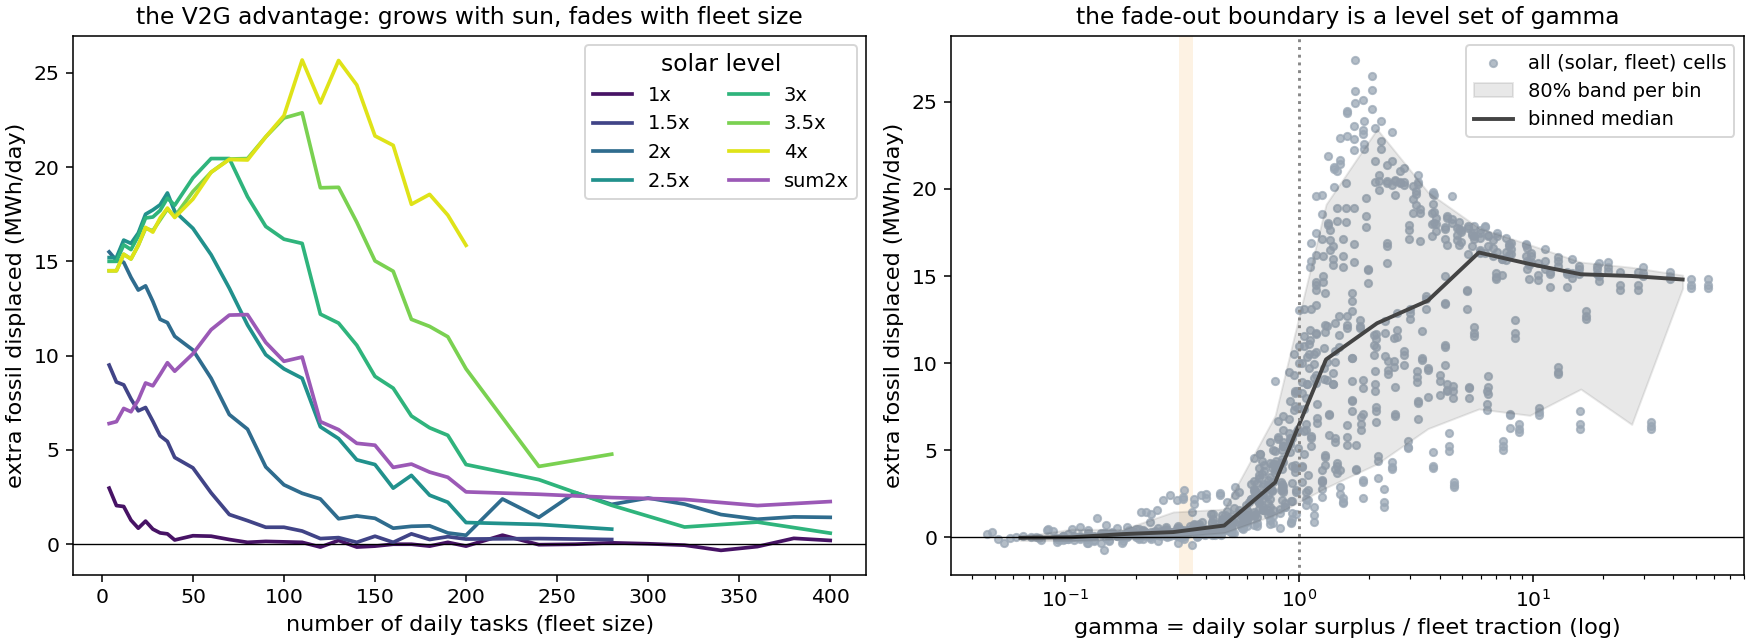
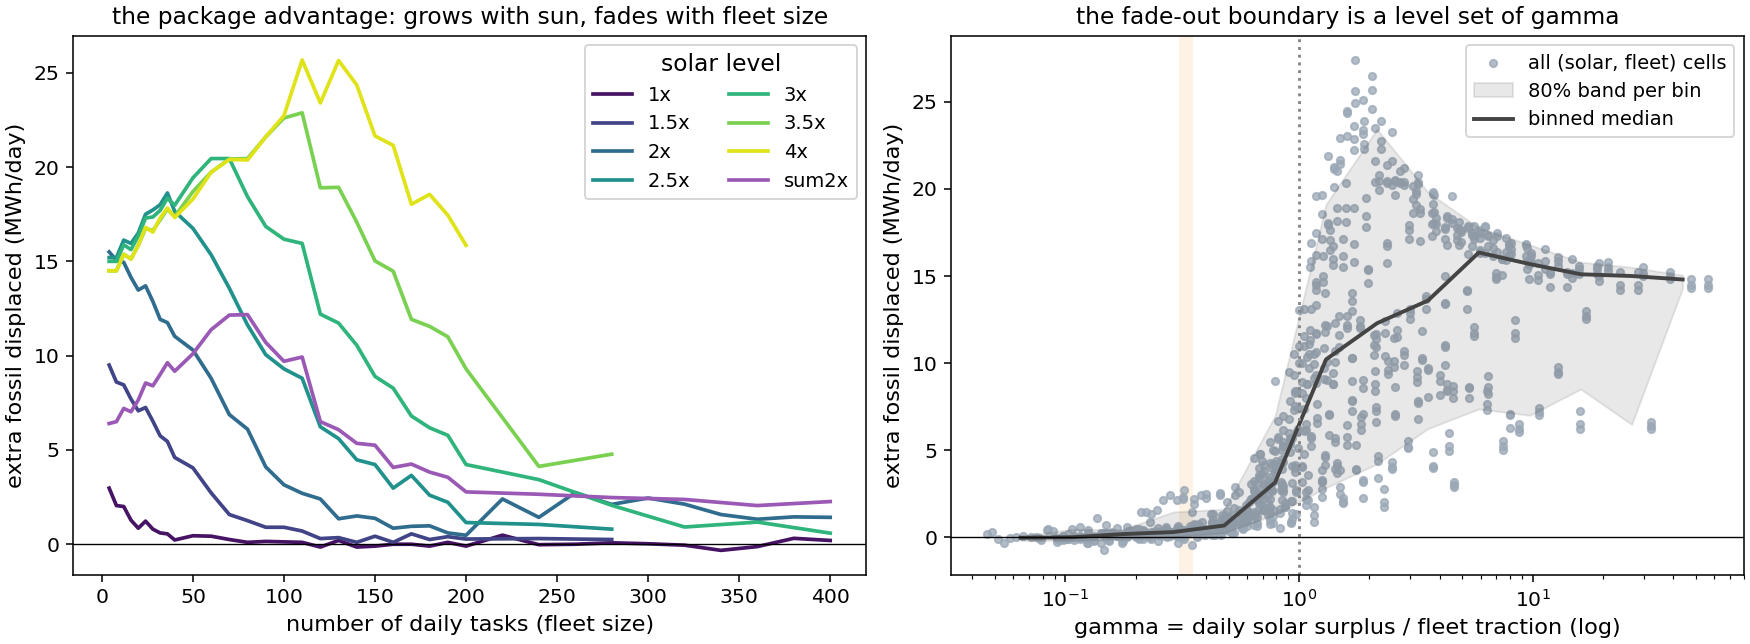
package labels on collapse/boundary figures per math review round

Changed region(s): [[0.0617, 0.0, 0.4629, 0.0621]]

diff --git a/section8_gallery.py b/section8_gallery.py
@@ -481,7 +481,7 @@ if len(design) >= 10:
             transform=ax.get_xaxis_transform(), fontsize=11, color="#666",
             rotation=90, ha="left", va="top")
     ax.set_xlabel("gamma = daily leftover solar / daily fleet driving energy")
-    ax.set_ylabel("% of total daily cost saved by enabling V2G (gross)")
+    ax.set_ylabel("package saving vs charge-only, % of daily cost (gross)")
     ax.set_title("what is V2G worth, holding operations fixed? compute gamma, read the curve",
                  fontsize=13)
     ax.legend(loc="upper left", fontsize=11)
@@ -1112,7 +1112,7 @@ if md14:
     ax[0].axhline(0, color="k", lw=0.7)
     ax[0].set_xlabel("number of daily tasks (fleet size)")
     ax[0].set_ylabel("extra fossil displaced (MWh/day)")
-    ax[0].set_title("the V2G advantage: grows with sun, fades with fleet size")
+    ax[0].set_title("the package advantage: grows with sun, fades with fleet size")
     ax[0].legend(fontsize=10, title="solar level", ncol=2)
     xs14 = [sur / max(tr, 1e-9) for (_, sur, _, _, _, tr) in gap_pts if np.isfinite(sur)]
     ys14 = [g for (_, sur, _, _, g, _) in gap_pts if np.isfinite(sur)]